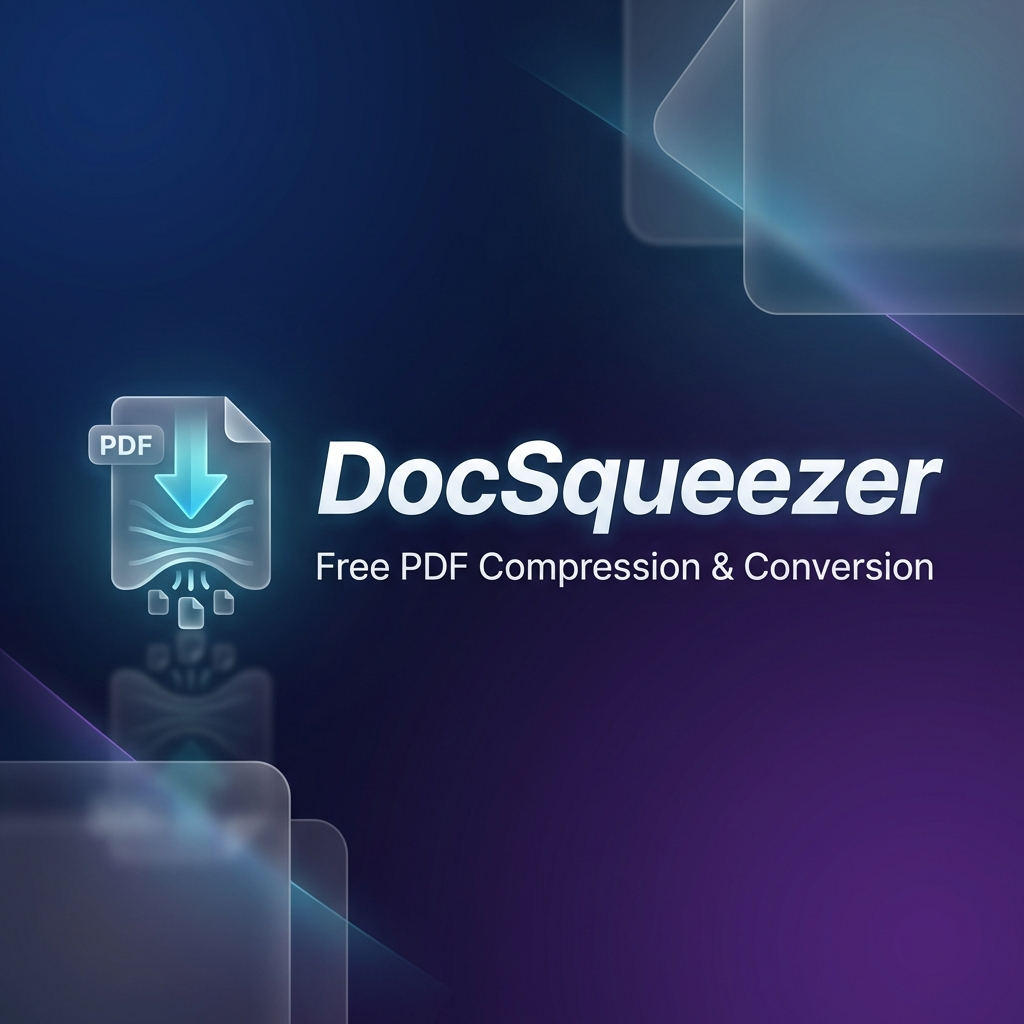
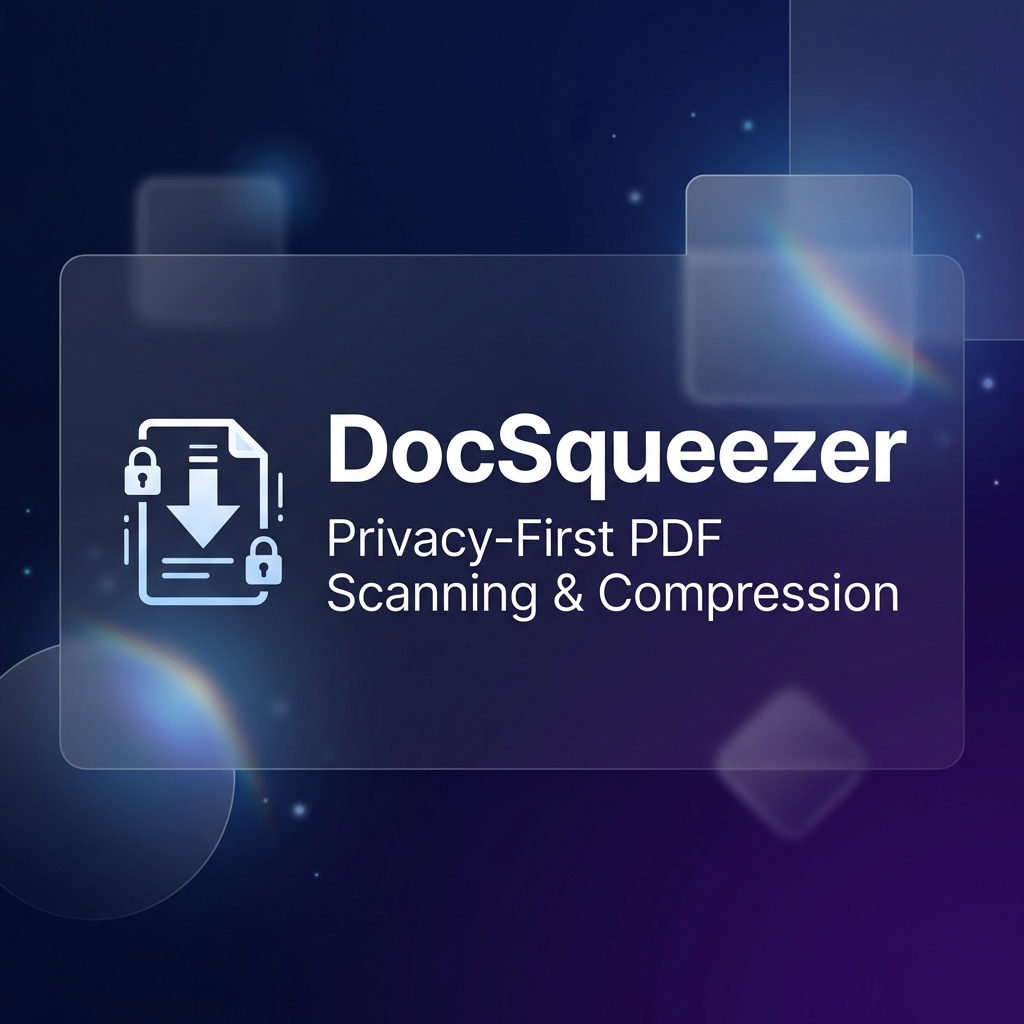
style: refine branding to Privacy-First and update OG image to v2

diff --git a/src/app/layout.tsx b/src/app/layout.tsx
@@ -24,8 +24,8 @@ const geistMono = Geist_Mono({
 
 export const metadata: Metadata = {
   metadataBase: new URL("https://docsqueezer.com"),
-  title: "DocSqueezer - Free PDF Compression & Conversion",
-  description: "Compress PDFs and images instantly. Fast, secure, and private. Free tier available with Pro plans starting at £5/month.",
+  title: "DocSqueezer - Privacy-First PDF Scanning & Compression",
+  description: "Compress PDFs and images instantly. Fast, secure, and private document processing starting at £5/month.",
   manifest: "/manifest.json",
   icons: {
     icon: "/icon-192.png",
@@ -34,15 +34,15 @@ export const metadata: Metadata = {
   openGraph: {
     type: "website",
     url: "https://docsqueezer.com",
-    title: "DocSqueezer - Free PDF Compression & Conversion",
-    description: "Compress PDFs and images instantly. Fast, secure, and private. Free tier available with Pro plans starting at £5/month.",
+    title: "DocSqueezer - Privacy-First PDF Scanning & Compression",
+    description: "Compress PDFs and images instantly. Fast, secure, and private document processing.",
     siteName: "DocSqueezer",
     images: [
       {
-        url: "/og-image.png?v=1",
+        url: "/og-image.png?v=2",
         width: 1200,
         height: 630,
-        alt: "DocSqueezer - Free PDF Compression & Conversion",
+        alt: "DocSqueezer - Privacy-First PDF Scanning & Compression",
       },
     ],
     locale: "en_GB",
@@ -50,9 +50,9 @@ export const metadata: Metadata = {
   twitter: {
     card: "summary_large_image",
     site: "https://docsqueezer.com",
-    title: "DocSqueezer - Free PDF Compression & Conversion",
-    description: "Compress PDFs and images instantly. Fast, secure, and private. Free tier available.",
-    images: ["/og-image.png?v=1"],
+    title: "DocSqueezer - Privacy-First PDF Scanning & Compression",
+    description: "Compress PDFs and images instantly. Fast, secure, and private document processing.",
+    images: ["/og-image.png?v=2"],
   },
 };
 
